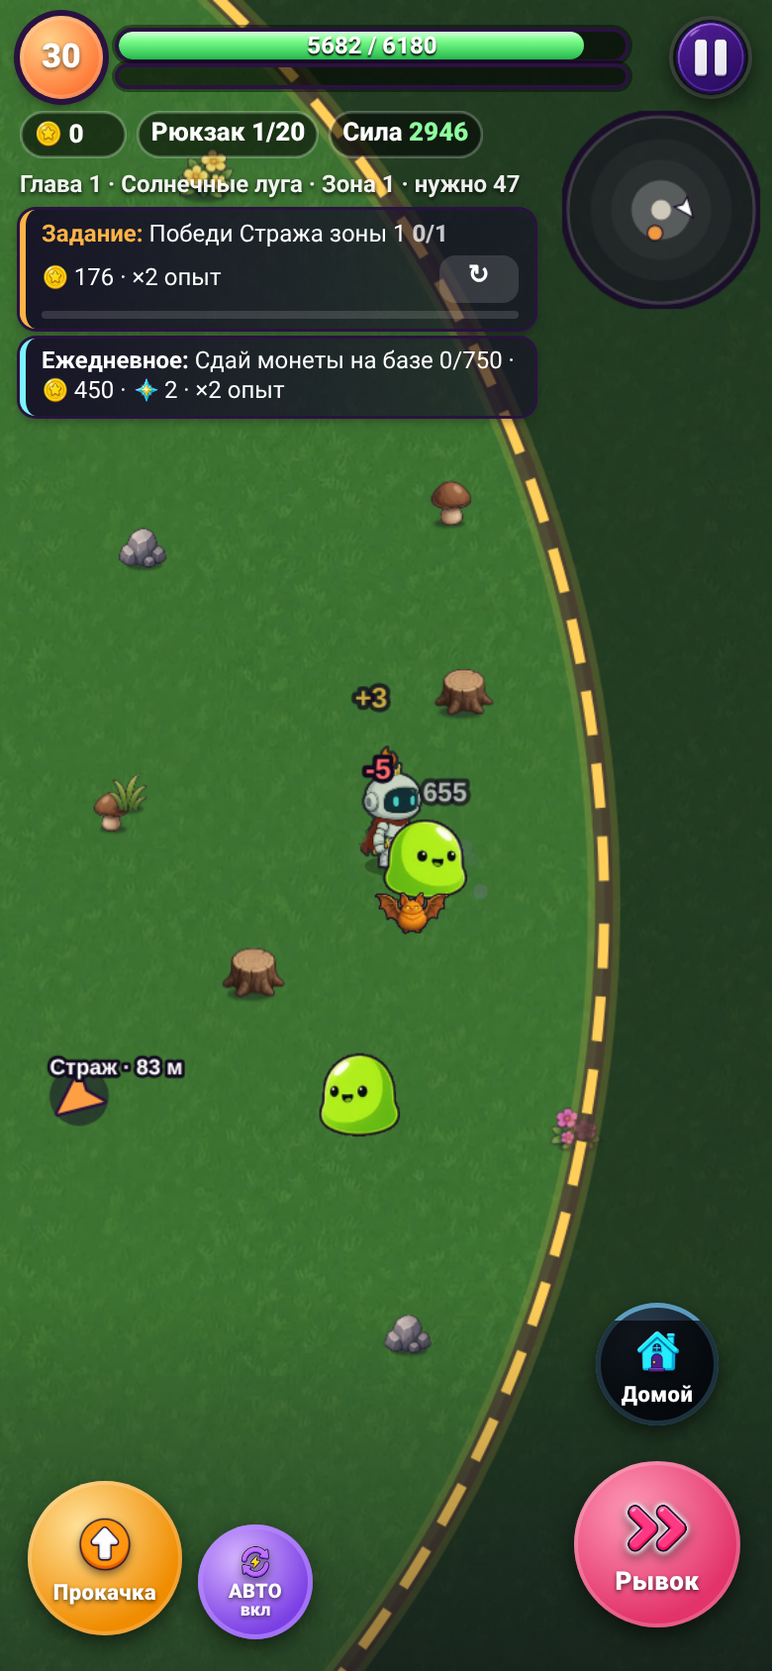
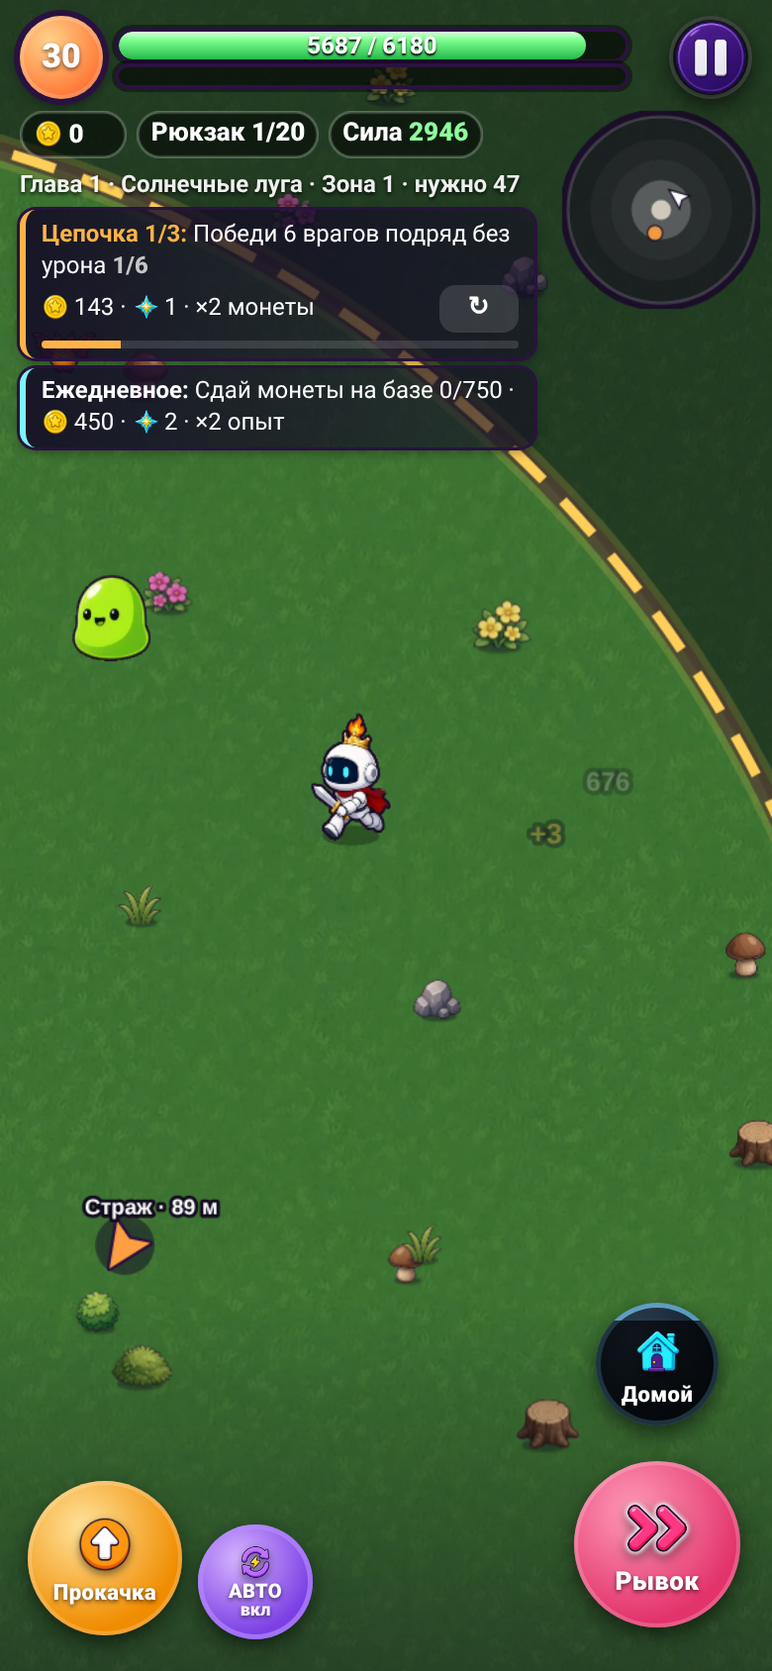
v24: second playtest fixes, slower leveling (xpB 40)

diff --git a/index.html b/index.html
@@ -280,7 +280,7 @@ const biomeName=ch=>biome(ch).name+(ch>BIOMES.length?' '+(Math.floor((ch-1)/BIOM
 const tier=(ch,ring)=>(ch-1)*4+ring;
 const enemyHP=t=>24*Math.pow(1.5,t-1);
 const enemyDmg=t=>5*Math.pow(1.48,t-1);
-const BAL={lootB:3,lootG:1.74,ramp:.8,rampMax:16,costG:1.2,xpB:20,xpG:1.28,lvlB:.02};
+const BAL={lootB:3,lootG:1.74,ramp:.8,rampMax:16,costG:1.2,xpB:40,xpG:1.28,lvlB:.02}; /* круг 21: xpB 20→40 — уровни героя вдвое медленнее (ур.1→6 ≈1,4 мин вместо 0,6 на АВТО) */
 const lootVal=t=>BAL.lootB*Math.pow(BAL.lootG,t-1);
 const xpVal=t=>4*Math.pow(1.5,t-1);
 const xpNeed=L=>Math.floor(BAL.xpB*Math.pow(BAL.xpG,L-1));
@@ -678,10 +678,10 @@ function update(dt){time+=dt;S.stats.play+=dt;BF.cool-=dt;if(BF.active)BF.t+=dt;
   let vx=m.x*ST.speed,vy=m.y*ST.speed;if(P.dashT>0){P.dashT-=dt;vx=P.dashDir.x*ST.speed*3.3;vy=P.dashDir.y*ST.speed*3.3;if(Math.random()<.7)parts.push({x:P.x,y:P.y,vx:0,vy:0,life:.25,max:.3,r:9,col:'#ff9ab8'})}
   P.moving=(m.x||m.y)?1:0;if(P.moving&&!P.swing)P.face=Math.atan2(m.y,m.x);P.anim+=dt*P.moving;
   P.x+=vx*dt;P.y+=vy*dt;
-  let maxR=RING[acc+1]-P.r;const d=hyp(P.x,P.y);if(d>maxR){P.x*=maxR/d;P.y*=maxR/d}
+  let maxR=RING[acc+1]-P.r;const d=hyp(P.x,P.y);if(d>maxR){P.x*=maxR/d;P.y*=maxR/d;if(acc<4&&P.moving&&P.manT>0&&!(P.dashT>0)&&time-(P.barT||-99)>6&&(m.x*P.x+m.y*P.y)>0){P.barT=time;toast('Барьер зоны '+(acc+1)+': сначала победи Стража зоны '+acc+' (стрелка «Страж»)',2800)}} /* круг 21: упёрся в барьер — объясняем, почему дальше нельзя */
   if(BF.active){const ax=P.x-ALTAR.x,ay=P.y-ALTAR.y,ad=hyp(ax,ay),mr=ARENA_R-P.r;if(ad>mr){P.x=ALTAR.x+ax/ad*mr;P.y=ALTAR.y+ay/ad*mr}}
   P.calmT-=dt;if(ST.regen>0&&P.calmT<=0&&P.hp<ST.hp)P.hp=Math.min(ST.hp,P.hp+ST.hp*ST.regen*dt); // реген только вне боя
-  if(inBase()){P.hp=Math.min(ST.hp,P.hp+ST.hp*.35*dt);if(S.bag.n>0)deposit()}
+  if(inBase()){if(P.hp<ST.hp){P.hp=Math.min(ST.hp,P.hp+ST.hp*.35*dt);hudT=0}if(S.bag.n>0)deposit()} /* круг 21: полоса HP на базе обновляется в том же кадре, что и лечение */
   if(P.swing){P.swing.t-=dt;if(P.swing.t<=0)P.swing=null}
   updWeapons(dt);
   if(S.set.auto&&S.set.autoBoss&&acc>=4&&!BF.active&&BF.cool<=0&&hyp(P.x-ALTAR.x,P.y-ALTAR.y)<55)startBoss() // только если игрок сам включил «АВТО бьёт боссов»
@@ -734,9 +734,10 @@ function update(dt){time+=dt;S.stats.play+=dt;BF.cool-=dt;if(BF.active)BF.t+=dt;
  {let tx=P.x,ty=P.y;if(BF.active&&BF.boss){tx+=(BF.boss.x-P.x)*.3;ty+=(BF.boss.y-P.y)*.35-30}/* круг 16: в бою камера чуть смещена к боссу и вниз — босс не уходит под карточки HUD */cam.x+=(tx-cam.x)*Math.min(1,dt*8);cam.y+=(ty-cam.y)*Math.min(1,dt*8)}cam.shake*=Math.pow(.01,dt);
  saveT-=dt;if(saveT<=0){saveT=2;save()}
  for(const k in S.buff)if(S.buff[k]>0)S.buff[k]-=dt;
- {const q=S.quest;if(q&&typeof q.left==='number'){q.left-=dt;if(q.left<=0){toast(q.k==='fast'?'Время вышло — вот новое задание':'Задание обновлено');S.quest=null;newQuest()}}}
+ {const q=S.quest;if(q&&typeof q.left==='number'){q.left-=dt;if(q.left<=0){toast(q.k==='fast'?'Время вышло — вот новое задание':'Время на задание «'+q.txt+'» вышло — вот новое',3200);S.quest=null;newQuest()}}}
  if(S.qSkipT>0)S.qSkipT-=dt;musicIntensity(dt);
  dailyT-=dt;if(dailyT<=0){dailyT=10;checkDaily()}
+ {const zk=inBase()?0:hudRing();if(zk!==updHud.zk){updHud.zk=zk;hudT=0}} /* круг 21: метка зоны меняется в том же кадре, что и позиция (после телепорта/респавна не висит старая зона) */
  hudT-=dt;if(hudT<=0){hudT=.1;if(!questValid()){S.quest=null;newQuest()}updHud()}}
 const rings=[],ghosts=[];const aliveG=g=>g.die>0;
 function updParticles(dt){for(const f of fxs)f.life-=dt;compact(fxs,aliveL);for(const r of rings)r.life-=dt;compact(rings,aliveL);for(const g of ghosts)g.die-=dt;compact(ghosts,aliveG);if(FX.dep>0)FX.dep-=dt;for(const p of parts){p.life-=dt;p.x+=p.vx*dt;p.y+=p.vy*dt;p.vx*=.92;p.vy*=.92}compact(parts,aliveL);
@@ -923,7 +924,7 @@ const vw=W/VZ,vh=H/VZ,L=cam.x-vw/2-40,T=cam.y-vh/2-40,R=L+vw+80,B=T+vh+80;
   ctx.save();ctx.translate(-13,-6);ctx.rotate(-k*.9);ctx.fillStyle='#a07a3a';ctx.fillRect(0,-8,26,8);ctx.fillStyle='#6b4a1d';ctx.fillRect(0,-8,26,3);ctx.fillStyle='#ffd34d';ctx.fillRect(0,-2,26,2);ctx.restore()}}
  // алтарь
  if(acc>=4){ctx.save();ctx.translate(ALTAR.x,ALTAR.y);const pul=.6+.4*Math.sin(time*3);const ali=im('altar');if(ali){ctx.drawImage(ali,-66,-66,132,132);ctx.strokeStyle=b.acc;ctx.globalAlpha=pul*.7;ctx.lineWidth=4;ctx.beginPath();ctx.arc(0,0,68,0,TAU);ctx.stroke();ctx.globalAlpha=1}else{ctx.fillStyle='#2a1030';ctx.beginPath();ctx.arc(0,0,58,0,TAU);ctx.fill();ctx.strokeStyle=b.acc;ctx.globalAlpha=pul;ctx.lineWidth=4;ctx.beginPath();for(let i=0;i<=5;i++){const a=-Math.PI/2+i*TAU*2/5;i?ctx.lineTo(Math.cos(a)*46,Math.sin(a)*46):ctx.moveTo(Math.cos(a)*46,Math.sin(a)*46)}ctx.stroke();ctx.globalAlpha=1;}
-  if(!BF.active){ctx.font='bold 13px sans-serif';ctx.textAlign='center';ctx.fillStyle='#fff';ctx.fillText('АЛТАРЬ БОССА',0,80)}ctx.restore();
+  ctx.restore();/* круг 21: подпись алтаря — в render() поверх героя */
   if(BF.active){ctx.save();ctx.strokeStyle='#1a0e28';ctx.globalAlpha=.5;ctx.lineWidth=9;ctx.beginPath();ctx.arc(ALTAR.x,ALTAR.y,ARENA_R,0,TAU);ctx.stroke();ctx.globalAlpha=1;ctx.strokeStyle='#7cf3ff';ctx.lineWidth=5;ctx.setLineDash([16,10]);ctx.lineDashOffset=time*50;ctx.beginPath();ctx.arc(ALTAR.x,ALTAR.y,ARENA_R,0,TAU);ctx.stroke();ctx.restore()}}}
 function rrect(x,y,w,h,r){ctx.beginPath();ctx.moveTo(x+r,y);ctx.arcTo(x+w,y,x+w,y+h,r);ctx.arcTo(x+w,y+h,x,y+h,r);ctx.arcTo(x,y+h,x,y,r);ctx.arcTo(x,y,x+w,y,r);ctx.closePath()}
 function eyes(e,s,ox=0,oy=-s*.15,sz=.22){const a=Math.atan2(P.y-e.y,P.x-e.x);for(const k of[-1,1]){const x=ox+k*s*.32,y=oy;ctx.fillStyle='#fff';ctx.beginPath();ctx.arc(x,y,s*sz,0,TAU);ctx.fill();ctx.fillStyle='#1a1426';ctx.beginPath();ctx.arc(x+Math.cos(a)*s*.08,y+Math.sin(a)*s*.08,s*sz*.55,0,TAU);ctx.fill()}}
@@ -990,7 +991,7 @@ function drawPlayer(){if(P.dead)return;ctx.save();ctx.translate(P.x,P.y);const b
 function drawWarn(w){const k=w.t/w.T;ctx.save();if(w.kind==='c'){const wi=warnImg('circle',w.dmg>0?'#ff3d6b':'#ff9a3d');if(wi){ctx.globalAlpha=.55;ctx.drawImage(wi,w.x-w.r-2,w.y-w.r-2,w.r*2+4,w.r*2+4);ctx.globalAlpha=1}else{ctx.strokeStyle='rgba(26,14,40,.55)';ctx.lineWidth=5;ctx.beginPath();ctx.arc(w.x,w.y,w.r,0,TAU);ctx.stroke();ctx.fillStyle=w.dmg>0?'rgba(255,40,60,.14)':'rgba(255,140,40,.14)';ctx.fill()}ctx.fillStyle=w.dmg>0?'rgba(255,40,60,.32)':'rgba(255,140,40,.32)';ctx.beginPath();ctx.arc(w.x,w.y,w.r*k,0,TAU);ctx.fill();ctx.strokeStyle='rgba(255,80,80,.8)';ctx.lineWidth=2;ctx.beginPath();ctx.arc(w.x,w.y,w.r,0,TAU);ctx.stroke();
   if(k>.55){ctx.strokeStyle=k>.85&&Math.sin(time*40)>0?'rgba(255,255,255,.95)':'rgba(255,60,80,.95)';ctx.lineWidth=3.5;ctx.beginPath();ctx.arc(w.x,w.y,w.r-3,0,TAU);ctx.stroke()}if(k>.88){ctx.strokeStyle='rgba(255,236,236,'+Math.min(1,(k-.88)*8).toFixed(2)+')';ctx.lineWidth=3;ctx.beginPath();ctx.arc(w.x,w.y,w.r-7,0,TAU);ctx.stroke()}}
  else{ctx.translate(w.x,w.y);ctx.rotate(Math.atan2(w.dy,w.dx));const ws=warnImg('strip','#ff3d6b');if(ws){const h=w.w+4,cap=Math.min(h/2,w.len/2);ctx.globalAlpha=.55;ctx.drawImage(ws,0,0,32,64,-2,-h/2,cap,h);ctx.drawImage(ws,32,0,192,64,cap-2,-h/2,w.len+4-cap*2,h);ctx.drawImage(ws,224,0,32,64,w.len+2-cap,-h/2,cap,h);ctx.globalAlpha=1}else{ctx.strokeStyle='rgba(26,14,40,.55)';ctx.lineWidth=5;ctx.strokeRect(0,-w.w/2,w.len,w.w);ctx.fillStyle='rgba(255,40,60,.14)';ctx.fillRect(0,-w.w/2,w.len,w.w)}ctx.fillStyle='rgba(255,40,60,.32)';ctx.fillRect(0,-w.w/2,w.len*k,w.w);if(k>.55){ctx.strokeStyle=k>.85&&Math.sin(time*40)>0?'rgba(255,255,255,.95)':'rgba(255,60,80,.95)';ctx.lineWidth=3;ctx.strokeRect(0,-w.w/2,w.len,w.w)}if(k>.88){ctx.strokeStyle='rgba(255,236,236,'+Math.min(1,(k-.88)*8).toFixed(2)+')';ctx.lineWidth=3;ctx.strokeRect(4,-w.w/2+4,w.len-8,w.w-8)}}ctx.restore()}
-const ARW=[],FPL=[];
+const ARW=[],FPL=[],ALTL={y:0};let FRN=0;
 function arrowTo(tx,ty,col,label,dist){const sx=(tx-cam.x)*ZOOM+W/2,sy=(ty-cam.y)*ZOOM+H/2;const m=40;
  /* bugfix: верх стрелок — под карточкой задания (а не фикс. 165 px), цель под HUD считается скрытой; у Босса/Стража — расстояние */
  const T0=Math.min(H-SAFE.b-150,Math.max(SAFE.t+165,hudBottom()+24));if(sx>m&&sx<W-m&&sy>Math.max(m+SAFE.t+80,T0-6)&&sy<H-m-SAFE.b-90)return;
@@ -1015,7 +1016,7 @@ function drawMinimapRaw(){const R=46,x=W-SAFE.r-10-R,y=SAFE.t+60+R,sc=R/WORLD_R,
  ctx.globalAlpha=1;ctx.strokeStyle='#1a0e28';ctx.lineWidth=4;ctx.beginPath();ctx.arc(x,y,R+3,0,TAU);ctx.stroke();ctx.strokeStyle='#ffffff30';ctx.lineWidth=1.5;ctx.beginPath();ctx.arc(x,y,R+1,0,TAU);ctx.stroke();
  {const hx=x+P.x*sc,hy=y+P.y*sc,a=P.face;ctx.translate(hx,hy);ctx.rotate(a);ctx.fillStyle='#fff';ctx.strokeStyle='#1a0e28';ctx.lineWidth=1.5;ctx.beginPath();ctx.moveTo(5,0);ctx.lineTo(-3.5,3.5);ctx.lineTo(-2,0);ctx.lineTo(-3.5,-3.5);ctx.closePath();ctx.stroke();ctx.fill()}ctx.restore()}
 let VZ=1;
-function render(){SPRB=0;ctx.setTransform(DPR,0,0,DPR,0,0);ctx.clearRect(0,0,W,H);
+function render(){SPRB=0;FRN++;ctx.setTransform(DPR,0,0,DPR,0,0);ctx.clearRect(0,0,W,H);
  const sh=cam.shake>.3&&!S.set.calm?cam.shake:0;const ox=sh?rand(-sh,sh):0,oy=sh?rand(-sh,sh):0;
  VZ=ZOOM*(mode==='menu'?1.5:1);ctx.save();ctx.translate(W/2+ox,H/2+oy);ctx.scale(VZ,VZ);ctx.translate(-cam.x,-cam.y);
  drawGround();
@@ -1035,6 +1036,7 @@ function render(){SPRB=0;ctx.setTransform(DPR,0,0,DPR,0,0);ctx.clearRect(0,0,W,H
  // онбординг: подсветка ближайшей цели для новичка и базы при полном рюкзаке
  if(mode==='play'&&!P.dead){const pu=Math.sin(time*5);if(S.stats.kills<5&&!S.set.auto){let best=null,bd=420*420;for(const e of VIS){if(e.type==='guard'||e.type==='boss')continue;const d=dist2(e,P);if(d<bd){bd=d;best=e}}if(best){ctx.strokeStyle='#7cf3ff';ctx.lineWidth=3;ctx.globalAlpha=.75+.25*pu;ctx.beginPath();ctx.arc(best.x,best.y,best.r+10+pu*2,0,TAU);ctx.stroke();ctx.globalAlpha=1}}
   if(S.bag.n>=ST.cap&&!inBase()){ctx.strokeStyle='#ffffff';ctx.lineWidth=4;ctx.globalAlpha=.35+.25*pu;ctx.setLineDash([16,10]);ctx.lineDashOffset=time*30;ctx.beginPath();ctx.arc(0,0,BASE_R+8,0,TAU);ctx.stroke();ctx.setLineDash([]);ctx.globalAlpha=1}}
+ if(accessible()>=4&&!BF.active){const up=Math.abs(P.x-ALTAR.x)<75&&P.y>ALTAR.y+25&&P.y<ALTAR.y+140,ly=ALTAR.y+(up?-80:80);ALTL.y=ly;ctx.font='900 13px sans-serif';ctx.textAlign='center';ctx.lineWidth=4;ctx.lineJoin='round';ctx.strokeStyle='#120a1e';ctx.strokeText('АЛТАРЬ БОССА',ALTAR.x,ly);ctx.fillStyle='#fff';ctx.fillText('АЛТАРЬ БОССА',ALTAR.x,ly)} /* круг 21: подпись не закрывается героем — рисуется поверх и уходит над алтарём, если герой стоит на её месте */
  ctx.textAlign='center';FPL.length=0;for(const f of floats){/* bugfix: цифры в толпе не ложатся друг на друга — более новая плавно поднимается на строку (до 3), старые стоят */const hw=f.txt.length*f.size*.3;let t=0;for(let k=0;k<3;k++){let hit=false;for(const o of FPL)if(Math.abs(o.x-f.x)<hw+o.hw&&Math.abs(o.py-(f.y+t))<(f.size+o.size)*.45){hit=true;break}if(!hit)break;t-=f.size*.95}f.dy=(f.dy||0)+(t-(f.dy||0))*.35;f.hw=hw;f.py=f.y+f.dy;FPL.push(f);ctx.globalAlpha=Math.min(1,f.life*2);ctx.font='900 '+Math.round(f.size*(1+(f.pop>0?f.pop*2:0)))+'px sans-serif';ctx.lineWidth=4.5;ctx.lineJoin='round';ctx.strokeStyle='#120a1e';ctx.strokeText(f.txt,f.x,f.py);ctx.fillStyle=f.col;ctx.fillText(f.txt,f.x,f.py)}ctx.globalAlpha=1;
  ctx.restore();
  if(mode==='menu')return;
@@ -1058,11 +1060,12 @@ function setSt(sel,k,v){const el=$(sel);const c='_s'+k;if(el[c]!==v){el[c]=v;el.
 function setH(sel,h){const el=$(sel);if(el._h!==h){el._h=h;el.innerHTML=h}}
 // bugfix: зона в HUD с гистерезисом 24 ед. — на границе колец надпись не мигает «Зона 1/2» на каждом шаге
 function hudRing(){const r=Math.min(4,Math.max(1,ringOf(P.x,P.y))),o=hudRing.z;if(o&&Math.abs(o-r)===1&&Math.abs(hyp(P.x,P.y)-RING[Math.max(o,r)])<24)return o;return hudRing.z=r}
+const qTime=t=>{t=Math.max(0,Math.ceil(t));return t<60?t+' с':Math.floor(t/60)+':'+String(t%60).padStart(2,'0')};
 function updHud(){const hpF=Math.max(0,P.hp/ST.hp);setSt('#hpfill','width',hpF*100+'%');$('#hpbar').classList.toggle('low',hpF<.3);setT('#hptxt',fmt(Math.max(0,P.hp))+' / '+fmt(ST.hp));
  setSt('#xpfill','width',Math.min(100,S.xp/xpNeed(S.lvl)*100)+'%');setT('#lvl',S.lvl);setT('#bank',fmt(S.bank));if(S.bag.n!==updHud.lb){if(S.bag.n>(updHud.lb||0))bump('#bagchip');updHud.lb=S.bag.n}setT('#bag',S.bag.n+'/'+ST.cap);$('#bagchip').classList.toggle('full',S.bag.n>=ST.cap);
  const acc=accessible(),r=hudRing();const pw=power(),rec=inBase()?recPower(tier(S.ch,acc)):recPower(tier(S.ch,r));setT('#pow',fmt(pw));setSt('#pow','color',pw>=rec?'#8dff9c':pw>=rec*.75?'#ffd166':'#ff7b8c');
  setH('#zone','Глава '+S.ch+' · '+biomeName(S.ch)+' · '+(inBase()?'База':'Зона '+r)+' · <span style="white-space:nowrap">нужно '+fmt(BF.active?bossRec(S.ch):rec)+'</span>');/* круг 16: «нужно N» не рвётся на две строки */
- const q=S.quest;$('#quest').classList.toggle('hidden',!(q&&q.reward&&typeof q.reward==='object'));if(q&&q.reward&&typeof q.reward==='object'){setH('#qHead',q.chain?'Цепочка '+(q.ci+1)+'/'+q.chain.length+':':'Задание:');setH('#qTxt',q.txt);setH('#qNum',(q.k==='deposit'?fmt(q.have)+'/'+fmt(q.need):q.have+'/'+q.need)+(q.k==='fast'&&typeof q.left==='number'?' · <b style="color:#ff9a9a">'+Math.ceil(q.left)+' с</b>':''));setH('#qRew',rewardTxt(q.reward));setSt('#qFill','width',Math.min(100,q.have/q.need*100)+'%');
+ const q=S.quest;$('#quest').classList.toggle('hidden',!(q&&q.reward&&typeof q.reward==='object'));if(q&&q.reward&&typeof q.reward==='object'){setH('#qHead',q.chain?'Цепочка '+(q.ci+1)+'/'+q.chain.length+':':'Задание:');setH('#qTxt',q.txt);setH('#qNum',(q.k==='deposit'?fmt(q.have)+'/'+fmt(q.need):q.have+'/'+q.need)+(typeof q.left==='number'?' · <b style="color:'+(q.k==='fast'||q.left<30?'#ff9a9a':'#ffe08a')+'">'+qTime(q.left)+'</b>':'')/* круг 21: у всех заданий с таймером видно оставшееся время */);setH('#qRew',rewardTxt(q.reward));setSt('#qFill','width',Math.min(100,q.have/q.need*100)+'%');
   const sk=$('#qSkip'),st=S.qSkipT>0?Math.ceil(S.qSkipT)+'с':'↻';sk.disabled=S.qSkipT>0;if(sk.textContent!==st)sk.textContent=st}
  const dl=S.daily;setH('#daily',dl&&!dl.done?'<b>Ежедневное:</b> '+dl.txt+' '+(dl.k==='deposit'?fmt(dl.have)+'/'+fmt(dl.need):dl.have+'/'+dl.need)+' · '+rewardTxt(dl.reward):'');
  setSt('#dashCd','height',Math.max(0,P.dashCd/2.2)*100+'%');
@@ -1198,8 +1201,11 @@ let qSkipArm=0;$('#hud').addEventListener('pointerdown',e=>{if(e.target.id!=='qS
  {const q=S.quest,now=performance.now();if(q&&(q.chain?(q.ci>0||q.have>0):q.have>=q.need*.5)&&now-qSkipArm>3500){qSkipArm=now;sfx('err');toast((q.chain?'Цепочка '+(q.ci+1)+'/'+q.chain.length:'Прогресс '+(q.k==='deposit'?fmt(q.have)+'/'+fmt(q.need):q.have+'/'+q.need))+' пропадёт. Нажми ↻ ещё раз, чтобы заменить задание',3500);return}qSkipArm=0} /* bugfix: прогресс задания/цепочки не теряется молча */
  S.quest=null;newQuest();S.qSkipT=45;sfx('click');vib(8,true);toast('Задание заменено');updHud();save()});hb('#bPause',()=>{if(P.dead||BF.winT>0)return;sfx('click');openSet('play')});
 $('#bPlay').onclick=startGame;$('#bHow').onclick=()=>{initAudio();showHow()};$('#bSet0').onclick=()=>{initAudio();openSet('menu')};
-window.addEventListener('keydown',e=>{keys[e.code]=true;if(mode==='play'){if(e.code==='Space'){dash();e.preventDefault()}else if(e.code==='KeyH'){if(!e.repeat)homeBtn()}else if(e.code==='KeyB'){if(!e.repeat&&canBack())homeBtn()}else if(e.code==='KeyF'||e.code==='Enter')openBossConfirm();else if(e.code==='KeyU'){if(!e.repeat)openUp()}else if(e.code==='KeyT'){if(!e.repeat)toggleAuto()}else if(e.code==='Escape')openSet('play')}else if(e.code==='Escape'){if(!$('#upScreen').classList.contains('hidden'))closeUp();else if(!$('#pause').classList.contains('hidden'))closeSet()}});
-window.addEventListener('keyup',e=>{keys[e.code]=false});
+/* круг 21: клавиша = e.code (физическая, не зависит от раскладки и CapsLock); если code пуст (синтетические/CDP-события) — по e.key, включая русскую раскладку */
+const KEYMAP={w:'KeyW','ц':'KeyW',a:'KeyA','ф':'KeyA',s:'KeyS','ы':'KeyS',d:'KeyD','в':'KeyD',h:'KeyH','р':'KeyH',b:'KeyB','и':'KeyB',f:'KeyF','а':'KeyF',u:'KeyU','г':'KeyU',t:'KeyT','е':'KeyT',' ':'Space',spacebar:'Space',up:'ArrowUp',down:'ArrowDown',left:'ArrowLeft',right:'ArrowRight',esc:'Escape'};
+const keyCode=e=>e.code||KEYMAP[(e.key||'').toLowerCase()]||e.key||'';
+window.addEventListener('keydown',e=>{const c=keyCode(e);keys[c]=true;if(mode==='play'){if(c==='Space'){dash();e.preventDefault()}else if(c==='KeyH'){if(!e.repeat)homeBtn()}else if(c==='KeyB'){if(!e.repeat&&canBack())homeBtn()}else if(c==='KeyF'||c==='Enter')openBossConfirm();else if(c==='KeyU'){if(!e.repeat)openUp()}else if(c==='KeyT'){if(!e.repeat)toggleAuto()}else if(c==='Escape')openSet('play')}else if(c==='Escape'){if(!$('#upScreen').classList.contains('hidden'))closeUp();else if(!$('#pause').classList.contains('hidden'))closeSet()}});
+window.addEventListener('keyup',e=>{keys[keyCode(e)]=false;const k2=KEYMAP[(e.key||'').toLowerCase()];if(k2)keys[k2]=false}); /* круг 21: отпускание снимает клавишу и по code, и по key — смешанные события не «залипают» */
 window.addEventListener('blur',()=>{for(const k in keys)keys[k]=false;joy.id=null});
 document.addEventListener('touchmove',e=>{if(!e.target.closest('.scroll'))e.preventDefault()},{passive:false});
 document.addEventListener('gesturestart',e=>e.preventDefault());document.addEventListener('dblclick',e=>e.preventDefault());
@@ -1230,7 +1236,7 @@ $('#bPlay').textContent=S.started?'Продолжить · ур. '+S.lvl:'Игр
 spawnDemo();
 requestAnimationFrame(frame);
 if('serviceWorker' in navigator&&location.protocol.startsWith('http'))window.addEventListener('load',()=>{navigator.serviceWorker.register('sw.js').catch(()=>{});navigator.serviceWorker.ready.then(r=>{if(r.active)r.active.postMessage('fill')}).catch(()=>{})});/* круг 18: докачать то, что не успела установка */
-window.__G={get ARW(){return ARW},hudRing,toggleAuto,homeBtn,get cam(){return cam},get floats(){return floats},ALTAR,RING,AU,MU,TH,musicTick,joy,TILES,PERF,autoQuality,openSlotPick,checkStreak,die:()=>die(),FX,heroDps,weaponDps,WEAP,newQuest,questEv,checkDaily,openBossConfirm,get needFrame(){return needFrame},BAL,UPG,upCost,recPower,bossRec,tier,power,accessible,get S(){return S},get ST(){return ST},P,BF,get enemies(){return enemies},startBoss,update,recalc,openUp,closeUp,showResult,switchChapter,get mode(){return mode},set mode(v){mode=v},render};
+window.__G={get ARW(){return ARW},get FRN(){return FRN},ALTL,keys,get time(){return time},hudRing,toggleAuto,homeBtn,get cam(){return cam},get floats(){return floats},ALTAR,RING,AU,MU,TH,musicTick,joy,TILES,PERF,autoQuality,openSlotPick,checkStreak,die:()=>die(),FX,heroDps,weaponDps,WEAP,newQuest,questEv,checkDaily,openBossConfirm,get needFrame(){return needFrame},BAL,UPG,upCost,recPower,bossRec,tier,power,accessible,get S(){return S},get ST(){return ST},P,BF,get enemies(){return enemies},startBoss,update,recalc,openUp,closeUp,showResult,switchChapter,get mode(){return mode},set mode(v){mode=v},render};
 </script>
 </body>
 </html>

diff --git a/sw.js b/sw.js
@@ -1,7 +1,7 @@
 // Офлайн-кэш «Искры Героя»
 // index.html (и навигация) — network-first с таймаутом 3 с: обновления доходят сразу, а на плохой сети стартует кэш (свежая версия догрузится в кэш фоном).
 // Остальное (иконки, манифест) — cache-first.
-const CACHE='iskra-v23';
+const CACHE='iskra-v24';
 const ASSETS=['./','./index.html','./manifest.webmanifest','./logo-1200x500.png','./bg-start-1170x2532.jpg','./icon-180.png','./icon-192.png','./icon-512.png','./icon-1024.png','./favicon.ico','./favicon-32.png','./favicon-48.png','./og-image-1200x630.jpg','./icons/upgrade.png','./icons/upgrade-256.png','./icons/dash.png','./icons/dash-256.png','./icons/home.png','./icons/home-256.png','./icons/back.png','./icons/back-256.png','./icons/auto.png','./icons/auto-256.png','./icons/coin.png','./icons/coin-256.png','./icons/spark.png','./icons/spark-256.png','./icons/pause.png','./icons/pause-256.png','./icons/weapon-sword.png','./icons/weapon-sword-256.png','./icons/weapon-blaster.png','./icons/weapon-blaster-256.png','./icons/weapon-blades.png','./icons/weapon-blades-256.png','./icons/weapon-lightning.png','./icons/weapon-lightning-256.png','./assets/altar.webp','./assets/warn-circle.webp','./assets/warn-strip.webp','./assets/base.webp','./assets/base-ash.webp','./assets/base-shroom.webp','./assets/base-void.webp','./assets/boss-ash.webp','./assets/boss-ice.webp','./assets/boss-meadow.webp','./assets/boss-shroom.webp','./assets/boss-void.webp','./assets/boss-waste.webp','./assets/chest.webp','./assets/coin-drop.webp','./assets/decor-ash.webp','./assets/decor-ice.webp','./assets/decor-meadow.webp','./assets/decor-shroom.webp','./assets/decor-void.webp','./assets/decor-waste.webp','./assets/enemies.webp','./assets/fx.webp','./assets/ground-ash.webp','./assets/ground-ice.webp','./assets/ground-meadow.webp','./assets/ground-shroom.webp','./assets/ground-void.webp','./assets/ground-waste.webp','./assets/guard.webp','./assets/hero.webp','./assets/projectiles.webp','./assets/ui-btn-blue.webp','./assets/ui-btn-dark.webp','./assets/ui-btn-orange.webp','./assets/ui-card.webp','./assets/ui-chip.webp','./assets/ui-panel.webp','./assets/icons/skill-aspd-256.webp','./assets/icons/skill-aspd.webp','./assets/icons/skill-atk-256.webp','./assets/icons/skill-atk.webp','./assets/icons/skill-bag-256.webp','./assets/icons/skill-bag.webp','./assets/icons/skill-crit-256.webp','./assets/icons/skill-crit.webp','./assets/icons/skill-hp-256.webp','./assets/icons/skill-hp.webp','./assets/icons/skill-mag-256.webp','./assets/icons/skill-mag.webp','./assets/icons/skill-regen-256.webp','./assets/icons/skill-regen.webp','./assets/icons/skill-spd-256.webp','./assets/icons/skill-spd.webp','./assets/icons/tal-greed-256.webp','./assets/icons/tal-greed.webp','./assets/icons/tal-might-256.webp','./assets/icons/tal-might.webp','./assets/icons/tal-portal-256.webp','./assets/icons/tal-portal.webp','./assets/icons/tal-vital-256.webp','./assets/icons/tal-vital.webp','./assets/icons/tal-wisdom-256.webp','./assets/icons/tal-wisdom.webp'];
 // каждый файл кэшируется отдельно: один 404 (например, нет favicon на хостинге) не ломает установку и офлайн
 // таймаут на каждый файл: один зависший запрос не блокирует установку; сначала критичное для старта, остальное — по 6 параллельно
